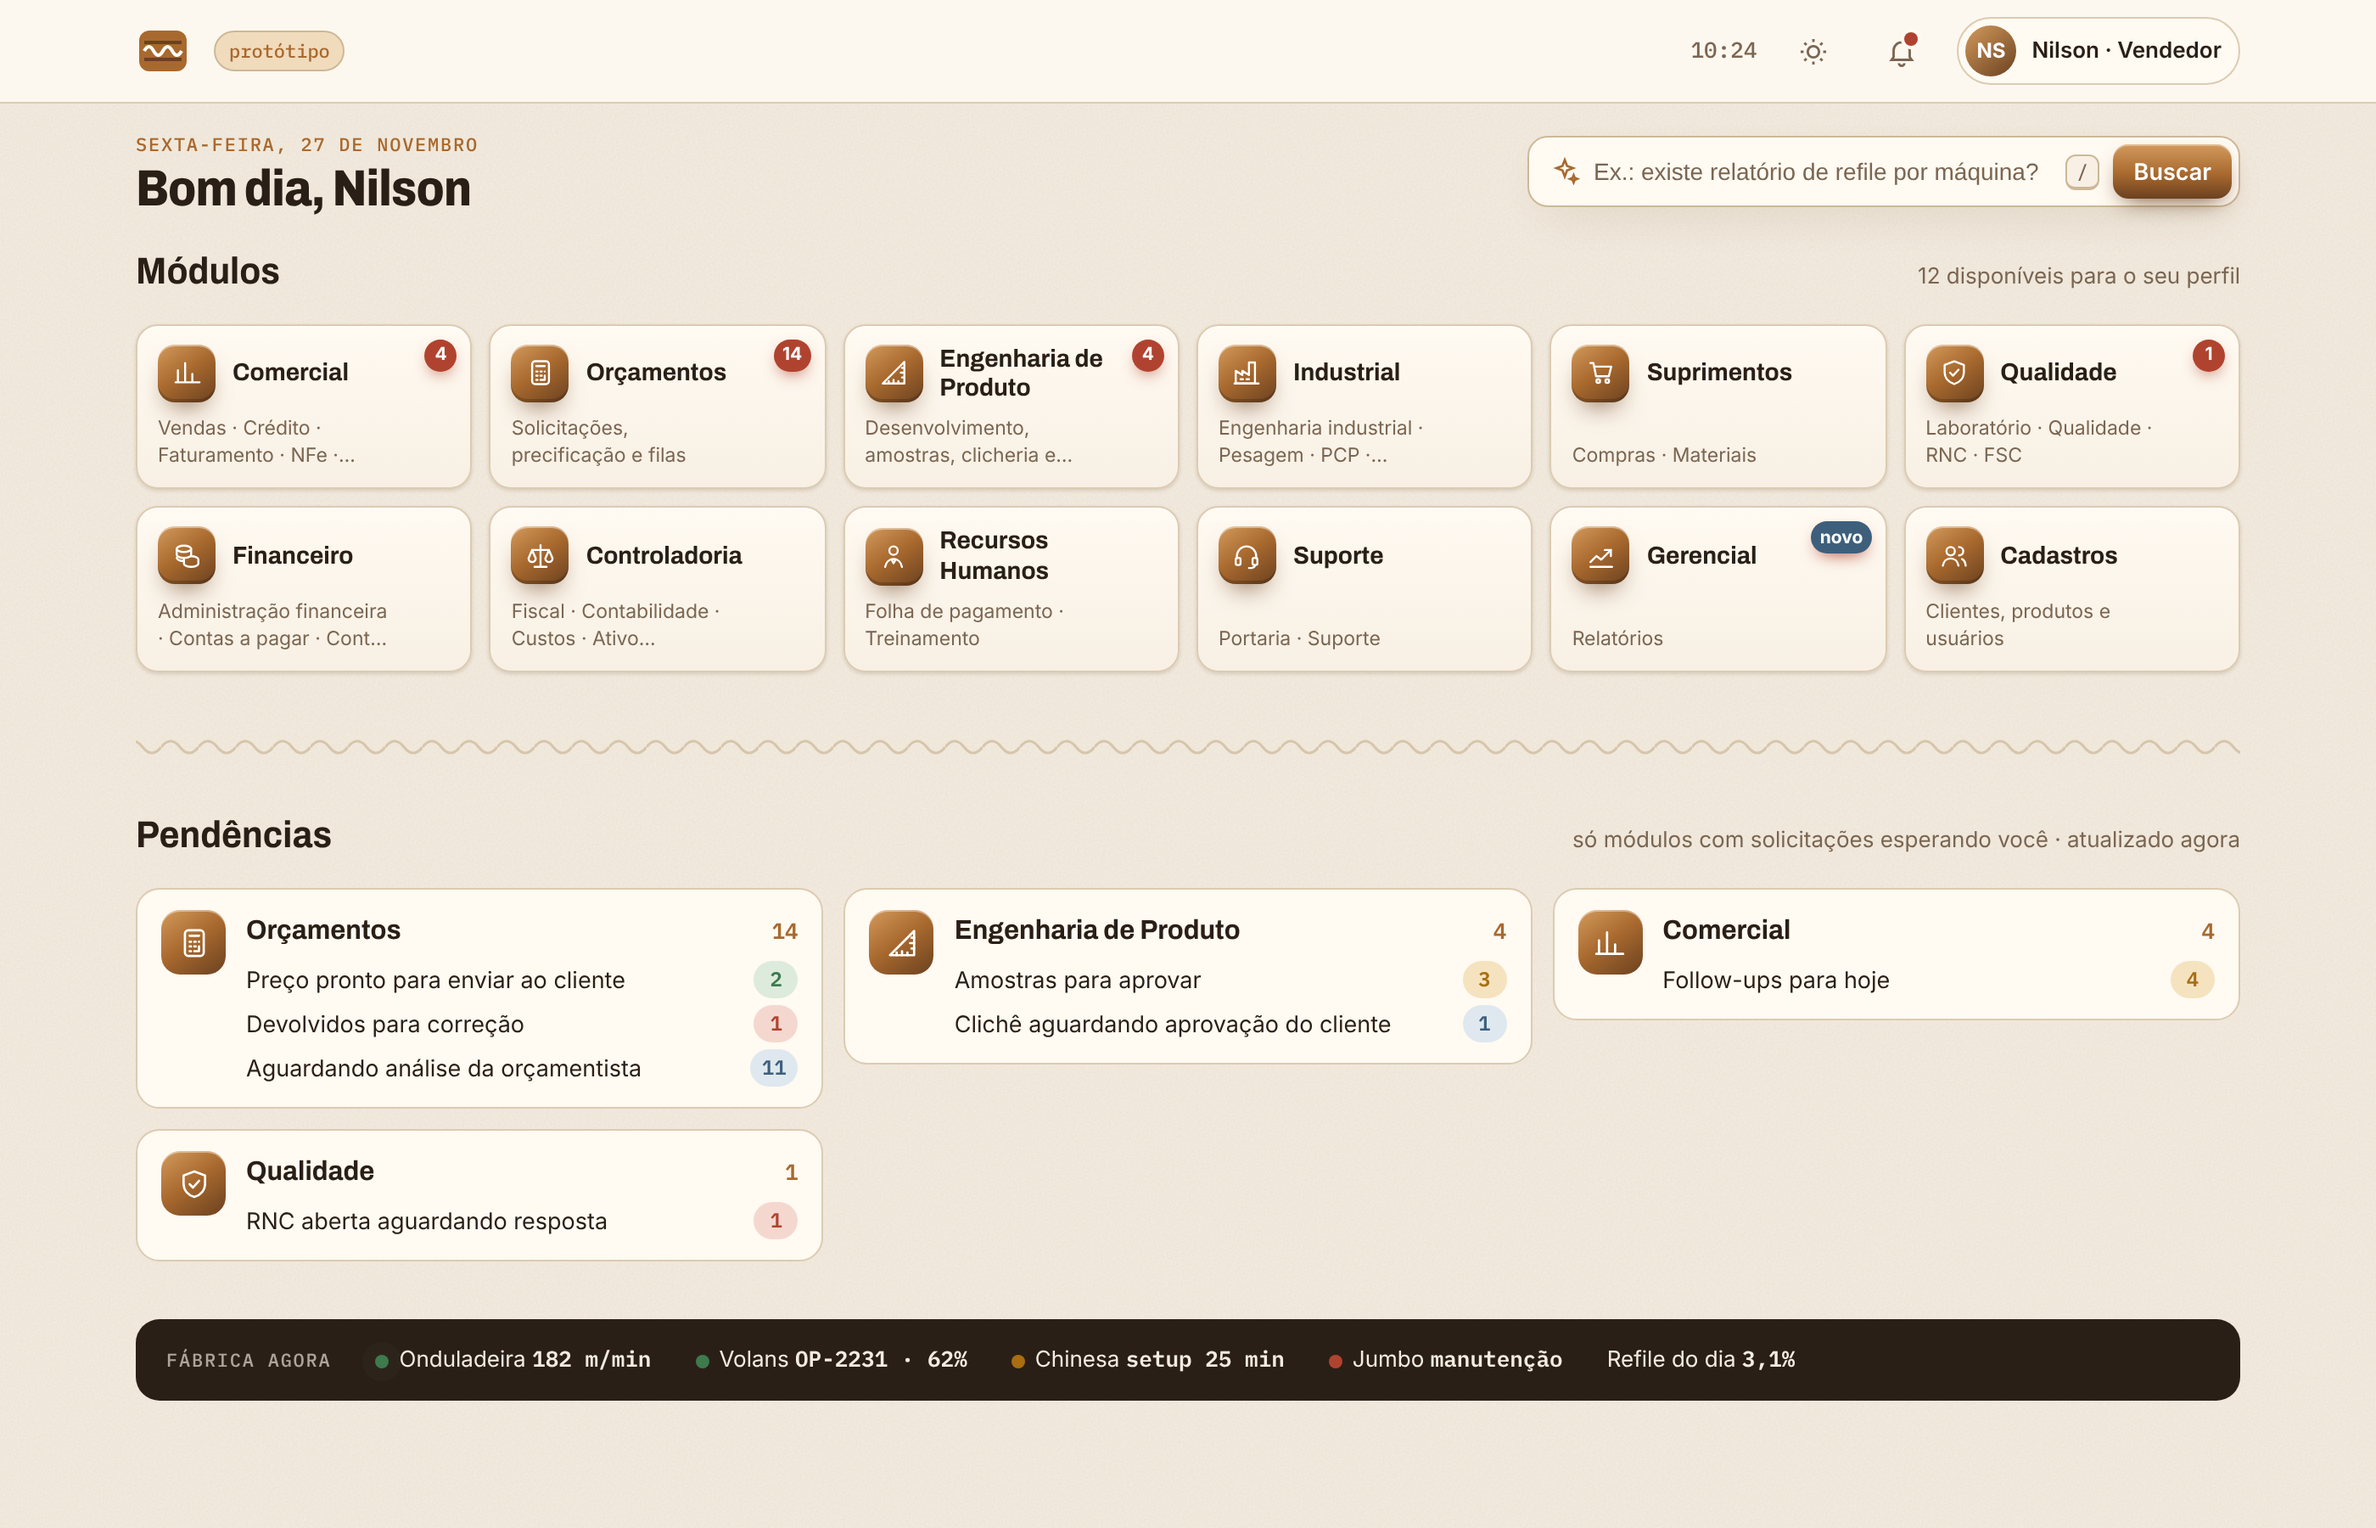
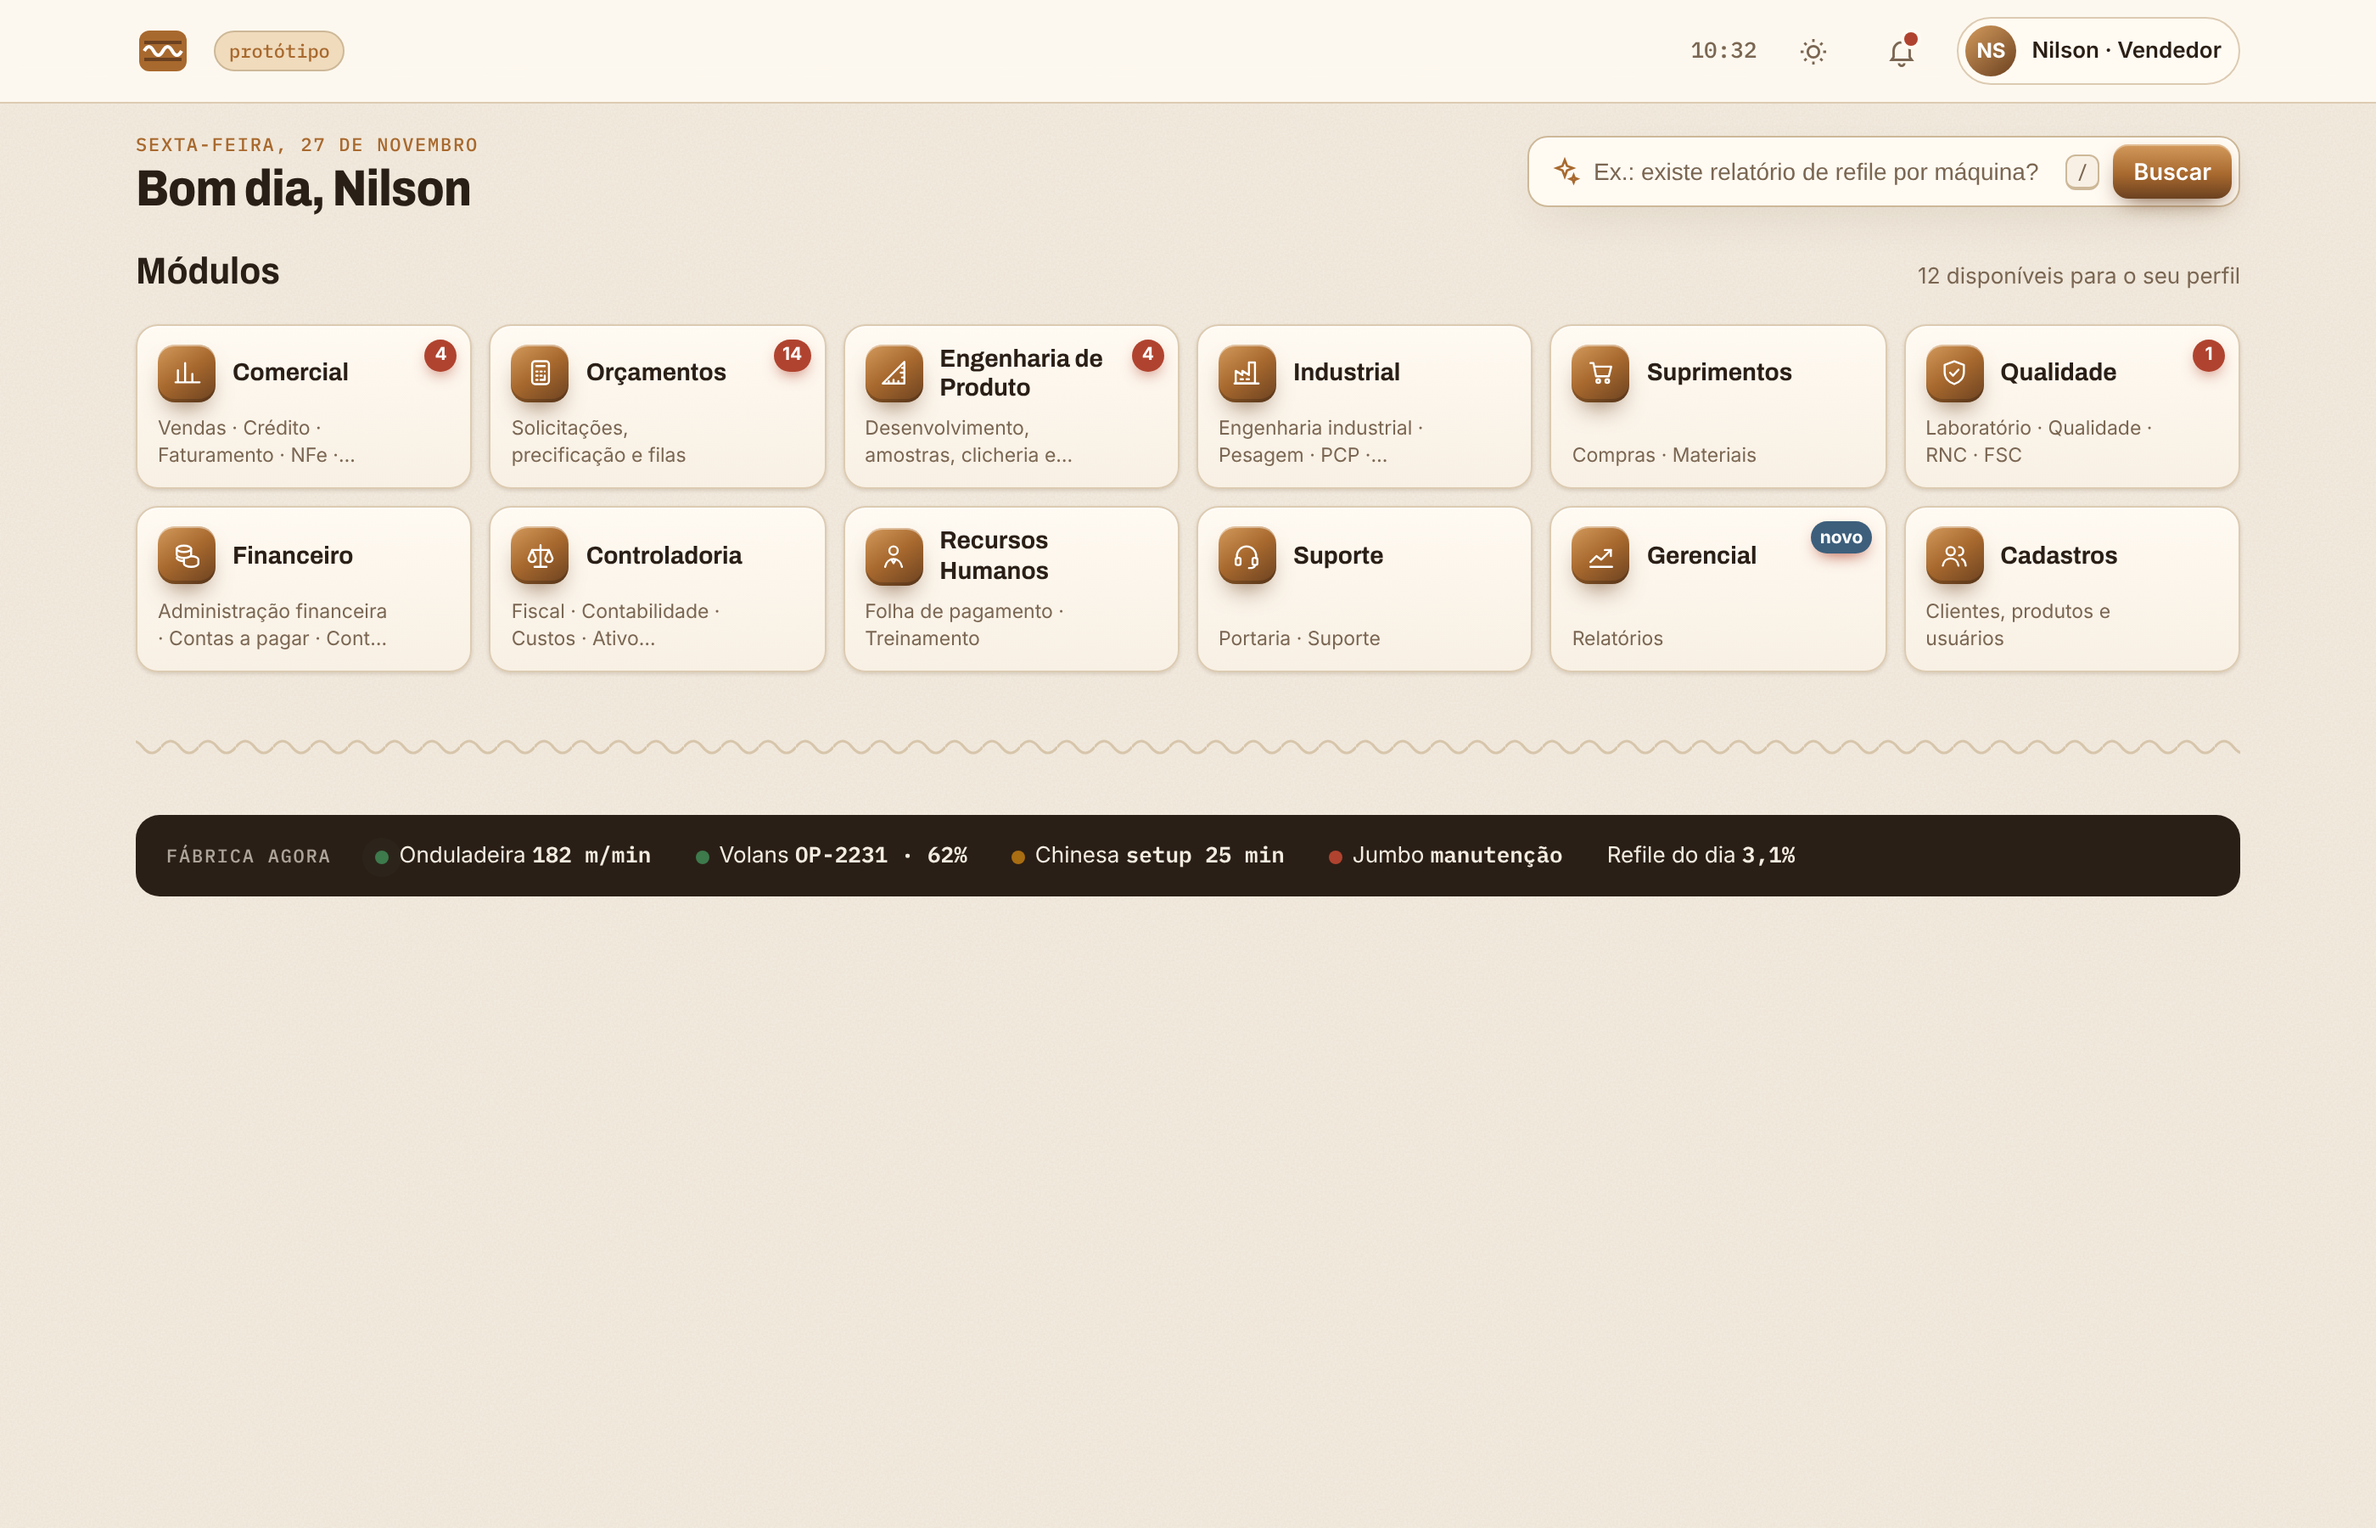
Tira a seção Pendências da tela inicial
Claude-Session: https://claude.ai/code/session_015kL8p4eCaL1huCADCSMStj

Changed region(s): [[0.0311, 0.5289, 0.9632, 0.9333]]

diff --git a/prototipo/tela-inicial-e-comercial.html b/prototipo/tela-inicial-e-comercial.html
@@ -562,12 +562,6 @@ table.cli{width:100%;border-collapse:collapse;min-width:760px;font-size:14px}
 
       <div class="wave" aria-hidden="true"></div>
 
-      <div class="secthead"><h2>Pendências</h2><span>só módulos com solicitações esperando você · atualizado agora</span></div>
-      <div class="dia">
-        <div class="pend" id="pend"></div>
-
-      </div>
-
       <div class="factory" role="status">
         <span class="fl">Fábrica agora</span>
         <span><span class="live pulse" style="background:var(--ok)"></span>Onduladeira <b>182 m/min</b></span>
@@ -736,21 +730,6 @@ apps.innerHTML = MODULOS.map(m => `
     ${m.badge ? `<span class="badge${m.calm?' calm':''}">${m.badge}</span>` : ''}
     ${caixinha(m.cx)}
   </button>`).join('');
-
-/* Pendências: só módulos com solicitações esperando (exemplo de protótipo) */
-const PENDENCIAS = [
-  {k:'orcamentos', nome:'Orçamentos', itens:[['Preço pronto para enviar ao cliente',2,'c-ok'],['Devolvidos para correção',1,'c-bad'],['Aguardando análise da orçamentista',11,'c-info']]},
-  {k:'engenharia', nome:'Engenharia de Produto', itens:[['Amostras para aprovar',3,'c-warn'],['Clichê aguardando aprovação do cliente',1,'c-info']]},
-  {k:'comercial', nome:'Comercial', itens:[['Follow-ups para hoje',4,'c-warn']]},
-  {k:'qualidade', nome:'Qualidade', itens:[['RNC aberta aguardando resposta',1,'c-bad']]},
-];
-document.getElementById('pend').innerHTML = PENDENCIAS.filter(m => m.itens.some(i => i[1] > 0)).map(m => {
-  const tot = m.itens.reduce((a,i) => a + i[1], 0);
-  return `<div class="pg"><span class="mi">${svg(m.k)}</span><div>
-    <div class="mn">${m.nome}<span class="tot">${tot}</span></div>
-    <ul>${m.itens.filter(i => i[1] > 0).map(i => `<li><button type="button" data-open="${m.nome} · ${i[0]}">${i[0]}</button><span class="cnt ${i[2]}">${i[1]}</span></li>`).join('')}</ul>
-  </div></div>`;
-}).join('');
 
 /* Luz que segue o mouse + inclinação leve */
 const reduz = matchMedia('(prefers-reduced-motion: reduce)').matches;

diff --git a/README.md b/README.md
@@ -65,8 +65,8 @@ do sistema (com IA) respeitando o que cada usuário pode acessar.
     **caixinha de papelão** entra pelo canto (faca em Engenharia de Produto, onda em
     Industrial, pilha no pallet em Suprimentos, caixa que abre nos demais).
   - Selo vermelho com a quantidade de pendências do módulo.
-- **Pendências** abaixo dos módulos: só aparecem os módulos com solicitações esperando
-  o usuário, com a quantidade por tipo.
+- A seção **Pendências** foi retirada da tela inicial (o selo vermelho nos cartões continua).
+  O que entra no lugar ainda será decidido.
 
 ### Áreas do módulo (padrão para todos)
 - Clicar num módulo que tem áreas abre a **tela de áreas**, no **mesmo layout da tela
